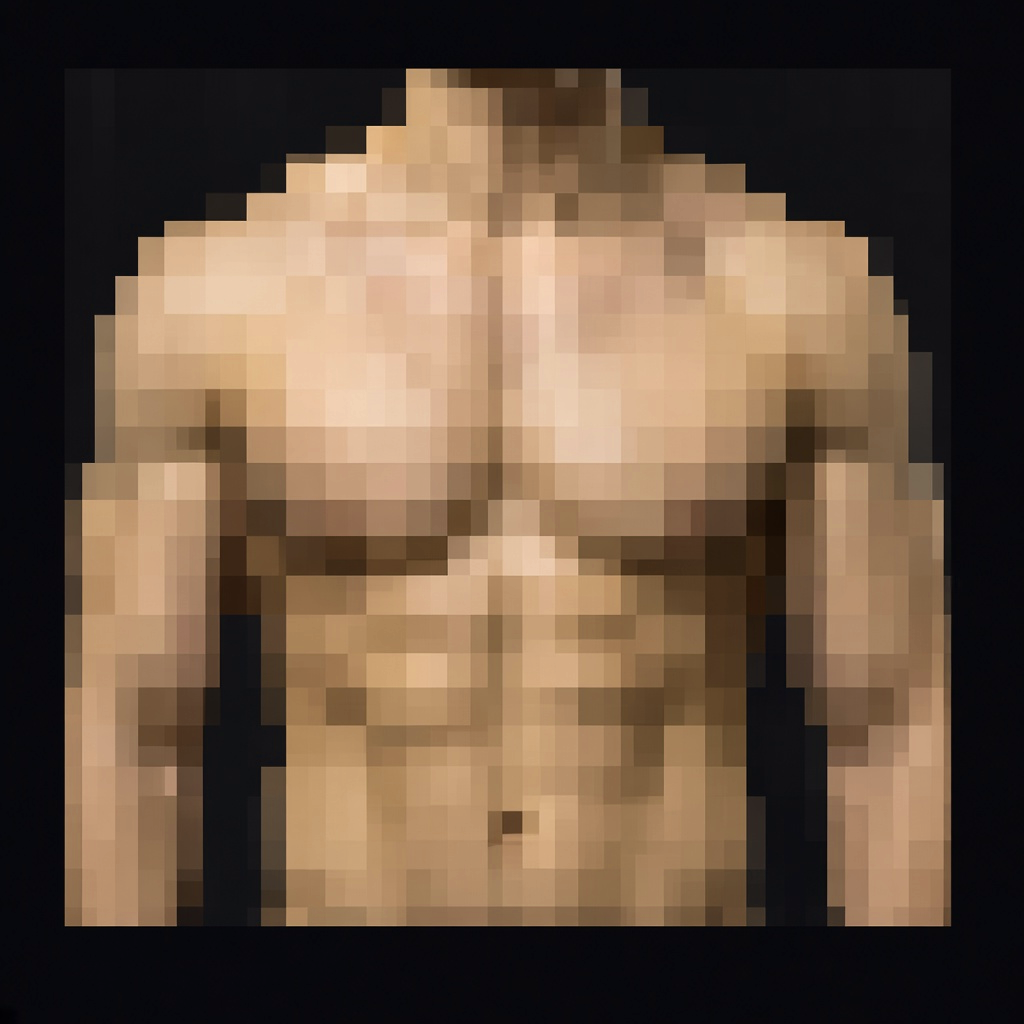
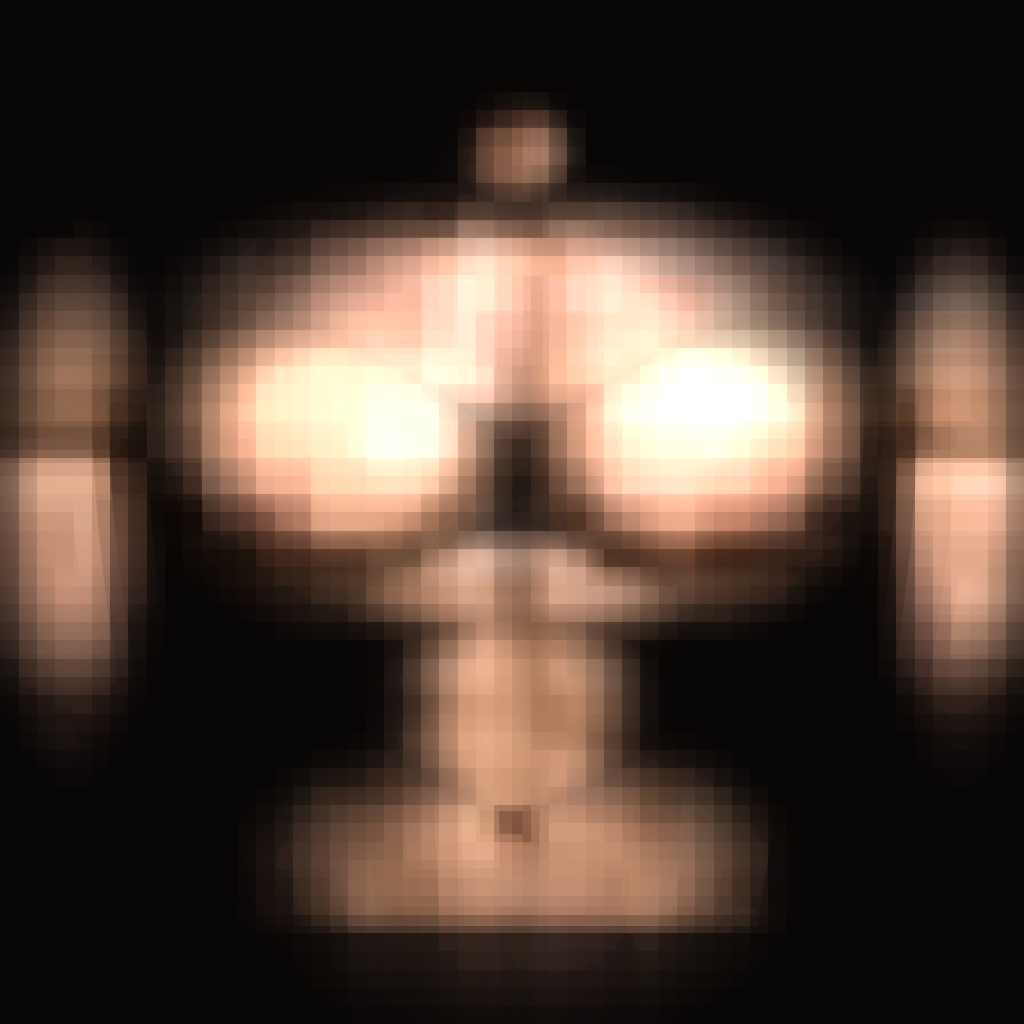
feat: Training mosaic Partner is a woman (same motion pair)
Keep FunGen-style mosaic motion stage: You (man) + Partner (woman) with
shared intensity-driven proximity and warmth. Partner asset remapped to
feminine silhouette while retaining mosaic skin language.

diff --git a/cmd/gui-wails/frontend/src/pixel_figure.js b/cmd/gui-wails/frontend/src/pixel_figure.js
@@ -1,8 +1,7 @@
 /** FunGen-style mosaic body pairs for the Training tab (You + Partner).
  *
- * Not Minecraft voxels — a photoreal torso shown as chunky mosaic pixels
- * (same look as FunGen 2 marketing). Intensity drives proximity + warmth.
- * Colors still share Claude’s figure theme for overlays.
+ * Photoreal torsos as chunky mosaic pixels (FunGen 2 look). You = man,
+ * Partner = woman — same motion stage (gap + warmth from intensity).
  */
 
 import { FIGURE_AMBER, FIGURE_TEAL, figureHeatColor } from './figure_theme.js';
@@ -69,7 +68,7 @@ export function mountTrainingPixelStage(host) {
     <div class="tr-pixel-card">
       <div class="tr-pixel-head">
         <strong>Motion (pair)</strong>
-        <span class="hint" id="tr-pixel-hint">FunGen-style mosaic bodies — closer + warmer as peak rises</span>
+        <span class="hint" id="tr-pixel-hint">FunGen-style mosaic — You + Partner (woman), closer + warmer as peak rises</span>
       </div>
       <div class="tr-pixel-body">
         <div class="tr-pixel-main tr-mosaic-main" id="tr-pixel-main"></div>
@@ -81,7 +80,7 @@ export function mountTrainingPixelStage(host) {
       </div>
       <div class="tr-pixel-labels tr-mosaic-labels">
         <span>You</span>
-        <span>Partner</span>
+        <span>Partner ♀</span>
       </div>
     </div>`;
 
